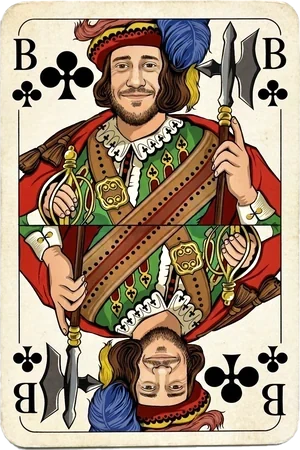
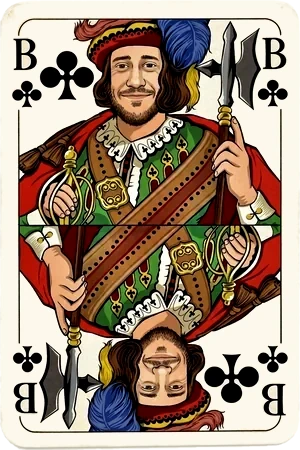
v321: Doppelkopf - Kreuz-Karten deutlich heller, Papier flach und ohne Scan-Flecken
Claude-Session: https://claude.ai/code/session_01Bq3j1UmgmmQRjdUKFtX7an

diff --git a/sw.js b/sw.js
@@ -44,8 +44,8 @@ const DATEIEN = [
   "spiele/groessenvergleich/objekte.js",
   "spiele/groessenvergleich/silhouetten.js",
   "spiele/knobeln/spiel.js",
-  "spiele/anleitungen.js?v=320",
-  "spiele/anleitungen-daten.js?v=320",
+  "spiele/anleitungen.js?v=321",
+  "spiele/anleitungen-daten.js?v=321",
   "spiele/doppelkopf/spiel.js",
   "spiele/tetris/spiel.js",
   "spiele/doppelkopf/regeln.js",
@@ -66,57 +66,57 @@ const DATEIEN = [
   "spiele/fussball-auktion/design.js",
   "spiele/fussball-auktion/anleitung.js",
   "spiele/fussball-auktion/karten.json",
-  "bilder/fussball-auktion/spieler-it-1.png?v=320",
-  "bilder/fussball-auktion/spieler-it-2.png?v=320",
-  "bilder/fussball-auktion/spieler-it-3.png?v=320",
-  "bilder/fussball-auktion/spieler-it-4.png?v=320",
-  "bilder/fussball-auktion/spieler-it-5.png?v=320",
-  "bilder/fussball-auktion/spieler-de-1.png?v=320",
+  "bilder/fussball-auktion/spieler-it-1.png?v=321",
+  "bilder/fussball-auktion/spieler-it-2.png?v=321",
+  "bilder/fussball-auktion/spieler-it-3.png?v=321",
+  "bilder/fussball-auktion/spieler-it-4.png?v=321",
+  "bilder/fussball-auktion/spieler-it-5.png?v=321",
+  "bilder/fussball-auktion/spieler-de-1.png?v=321",
   "bilder/doppelkopf-dame.webp",
-  "bilder/doppelkopf/kreuz-9.webp?v=320",
-  "bilder/doppelkopf/kreuz-10.webp?v=320",
-  "bilder/doppelkopf/kreuz-bube.webp?v=320",
-  "bilder/doppelkopf/kreuz-dame.webp?v=320",
-  "bilder/doppelkopf/kreuz-koenig.webp?v=320",
-  "bilder/doppelkopf/kreuz-ass.webp?v=320",
+  "bilder/doppelkopf/kreuz-9.webp?v=321",
+  "bilder/doppelkopf/kreuz-10.webp?v=321",
+  "bilder/doppelkopf/kreuz-bube.webp?v=321",
+  "bilder/doppelkopf/kreuz-dame.webp?v=321",
+  "bilder/doppelkopf/kreuz-koenig.webp?v=321",
+  "bilder/doppelkopf/kreuz-ass.webp?v=321",
   "bilder/tetris-stein.webp",
   "bilder/knobeln-streichhoelzer.webp",
   "bilder/merks-dir-karten.webp",
   "bilder/passgenau-bloecke.webp",
-  "bilder/fussball-auktion/spieler-de-2.png?v=320",
-  "bilder/fussball-auktion/spieler-de-3.png?v=320",
-  "bilder/fussball-auktion/spieler-de-4.png?v=320",
-  "bilder/fussball-auktion/spieler-de-5.png?v=320",
-  "bilder/fussball-auktion/spieler-jp-1.png?v=320",
-  "bilder/fussball-auktion/spieler-jp-2.png?v=320",
-  "bilder/fussball-auktion/spieler-jp-3.png?v=320",
-  "bilder/fussball-auktion/spieler-jp-4.png?v=320",
-  "bilder/fussball-auktion/spieler-jp-5.png?v=320",
-  "bilder/fussball-auktion/spieler-br-1.png?v=320",
-  "bilder/fussball-auktion/spieler-br-2.png?v=320",
-  "bilder/fussball-auktion/spieler-br-3.png?v=320",
-  "bilder/fussball-auktion/spieler-br-4.png?v=320",
-  "bilder/fussball-auktion/spieler-br-5.png?v=320",
-  "bilder/fussball-auktion/spieler-es-1.png?v=320",
-  "bilder/fussball-auktion/spieler-es-2.png?v=320",
-  "bilder/fussball-auktion/spieler-es-3.png?v=320",
-  "bilder/fussball-auktion/spieler-es-4.png?v=320",
-  "bilder/fussball-auktion/spieler-es-5.png?v=320",
-  "bilder/fussball-auktion/spieler-ar-1.png?v=320",
-  "bilder/fussball-auktion/spieler-ar-2.png?v=320",
-  "bilder/fussball-auktion/spieler-ar-3.png?v=320",
-  "bilder/fussball-auktion/spieler-ar-4.png?v=320",
-  "bilder/fussball-auktion/spieler-ar-5.png?v=320",
-  "bilder/fussball-auktion/spieler-fr-1.png?v=320",
-  "bilder/fussball-auktion/spieler-fr-2.png?v=320",
-  "bilder/fussball-auktion/spieler-fr-3.png?v=320",
-  "bilder/fussball-auktion/spieler-fr-4.png?v=320",
-  "bilder/fussball-auktion/spieler-fr-5.png?v=320",
-  "bilder/fussball-auktion/spieler-ng-1.png?v=320",
-  "bilder/fussball-auktion/spieler-ng-2.png?v=320",
-  "bilder/fussball-auktion/spieler-ng-3.png?v=320",
-  "bilder/fussball-auktion/spieler-ng-4.png?v=320",
-  "bilder/fussball-auktion/spieler-ng-5.png?v=320",
+  "bilder/fussball-auktion/spieler-de-2.png?v=321",
+  "bilder/fussball-auktion/spieler-de-3.png?v=321",
+  "bilder/fussball-auktion/spieler-de-4.png?v=321",
+  "bilder/fussball-auktion/spieler-de-5.png?v=321",
+  "bilder/fussball-auktion/spieler-jp-1.png?v=321",
+  "bilder/fussball-auktion/spieler-jp-2.png?v=321",
+  "bilder/fussball-auktion/spieler-jp-3.png?v=321",
+  "bilder/fussball-auktion/spieler-jp-4.png?v=321",
+  "bilder/fussball-auktion/spieler-jp-5.png?v=321",
+  "bilder/fussball-auktion/spieler-br-1.png?v=321",
+  "bilder/fussball-auktion/spieler-br-2.png?v=321",
+  "bilder/fussball-auktion/spieler-br-3.png?v=321",
+  "bilder/fussball-auktion/spieler-br-4.png?v=321",
+  "bilder/fussball-auktion/spieler-br-5.png?v=321",
+  "bilder/fussball-auktion/spieler-es-1.png?v=321",
+  "bilder/fussball-auktion/spieler-es-2.png?v=321",
+  "bilder/fussball-auktion/spieler-es-3.png?v=321",
+  "bilder/fussball-auktion/spieler-es-4.png?v=321",
+  "bilder/fussball-auktion/spieler-es-5.png?v=321",
+  "bilder/fussball-auktion/spieler-ar-1.png?v=321",
+  "bilder/fussball-auktion/spieler-ar-2.png?v=321",
+  "bilder/fussball-auktion/spieler-ar-3.png?v=321",
+  "bilder/fussball-auktion/spieler-ar-4.png?v=321",
+  "bilder/fussball-auktion/spieler-ar-5.png?v=321",
+  "bilder/fussball-auktion/spieler-fr-1.png?v=321",
+  "bilder/fussball-auktion/spieler-fr-2.png?v=321",
+  "bilder/fussball-auktion/spieler-fr-3.png?v=321",
+  "bilder/fussball-auktion/spieler-fr-4.png?v=321",
+  "bilder/fussball-auktion/spieler-fr-5.png?v=321",
+  "bilder/fussball-auktion/spieler-ng-1.png?v=321",
+  "bilder/fussball-auktion/spieler-ng-2.png?v=321",
+  "bilder/fussball-auktion/spieler-ng-3.png?v=321",
+  "bilder/fussball-auktion/spieler-ng-4.png?v=321",
+  "bilder/fussball-auktion/spieler-ng-5.png?v=321",
   "spiele/doppelblick/spiel.js",
   "spiele/blitzquiz/spiel.js",
   "spiele/blitzquiz/fragen.json",

diff --git a/index.html b/index.html
@@ -18,7 +18,7 @@
   <link rel="preconnect" href="https://fonts.googleapis.com">
   <link rel="preconnect" href="https://fonts.gstatic.com" crossorigin>
   <link href="https://fonts.googleapis.com/css2?family=Barlow+Condensed:ital,wght@0,800;1,800&family=Bungee&display=swap" rel="stylesheet">
-  <link rel="stylesheet" href="stil.css?v=320">
+  <link rel="stylesheet" href="stil.css?v=321">
 </head>
 <body>
 
@@ -39,7 +39,7 @@
   <div id="start-screen" class="bildschirm-karte">
     <div class="start-hero">
       <div class="start-icon">
-        <img src="bilder/logo-fuchs-transparent.png?v=320" width="102" height="102" alt="" class="app-icon">
+        <img src="bilder/logo-fuchs-transparent.png?v=321" width="102" height="102" alt="" class="app-icon">
       </div>
       <h1>Trollhouse</h1>
       <p class="start-tagline">Ein Raum, ein Abend, viele Spiele</p>
@@ -204,11 +204,11 @@
   <div id="lobby-screen" class="bildschirm-karte" hidden>
     <div class="lobby-kopf">
       <div class="lobby-marke">
-        <span class="lobby-logo-badge"><img src="bilder/logo-fuchs-transparent.png?v=320" width="36" height="36" alt="" class="lobby-app-icon"></span>
+        <span class="lobby-logo-badge"><img src="bilder/logo-fuchs-transparent.png?v=321" width="36" height="36" alt="" class="lobby-app-icon"></span>
         <h1>Trollhouse</h1>
       </div>
       <button id="btn-lobby-verlassen" class="lobby-verlassen" type="button">
-        <img src="bilder/icon-raum-verlassen.svg?v=320" width="32" height="32" alt="">
+        <img src="bilder/icon-raum-verlassen.svg?v=321" width="32" height="32" alt="">
         <span class="nur-screenreader">Raum verlassen</span>
       </button>
     </div>
@@ -254,6 +254,6 @@
   <!-- ---------- Hierhin rendert das jeweils laufende Spiel ---------- -->
   <div id="spiel-wurzel"></div>
 
-  <script type="module" src="app.js?v=320"></script>
+  <script type="module" src="app.js?v=321"></script>
 </body>
 </html>

diff --git a/spiele/anleitungen.js b/spiele/anleitungen.js
@@ -2,8 +2,8 @@
 //  Spiele-Anleitungen: Übersicht aller Spiele, dann Seite für Seite durchblättern.
 //  Wird erst beim Klick auf "Spiele" (Startseite) geladen.
 // ============================================================================
-import { SPIELE } from "./register.js?v=320";
-import { ANLEITUNGEN, szene } from "./anleitungen-daten.js?v=320";
+import { SPIELE } from "./register.js?v=321";
+import { ANLEITUNGEN, szene } from "./anleitungen-daten.js?v=321";
 
 const esc = (s) => String(s).replace(/&/g, "&amp;").replace(/</g, "&lt;").replace(/>/g, "&gt;");
 const fett = (s) => esc(s).replace(/\*\*(.+?)\*\*/g, "<strong>$1</strong>");
@@ -61,7 +61,7 @@ export function oeffneAnleitungen(startId = null) {
       </div>
       <div class="anl-titel"><span class="anl-titel-sym">${symbol(sp)}</span><h2>${esc(sp.name)}</h2></div>
       <div class="anl-folie" id="anl-folie">
-        <div class="anl-bildrahmen"><img class="anl-foto" src="bilder/anleitung/${id}-${seite + 1}.webp?v=320" alt="Screenshot: ${esc(f.t)}" loading="eager"></div>
+        <div class="anl-bildrahmen"><img class="anl-foto" src="bilder/anleitung/${id}-${seite + 1}.webp?v=321" alt="Screenshot: ${esc(f.t)}" loading="eager"></div>
         <h3>${esc(f.t)}</h3>
         ${f.x.map((a) => `<p>${fett(a)}</p>`).join("")}
       </div>

diff --git a/app.js b/app.js
@@ -13,9 +13,9 @@ import {
 // WICHTIG: bei jedem Versionssprung hier UND in spiele/register.js
 // (SPIEL_VERSION) mit hochzaehlen, sonst bekommen manche Geraete
 // Spiel-Fixes (spiele/<id>/spiel.js) verzoegert oder gar nicht mit.
-import { SPIELE, spielInfo } from "./spiele/register.js?v=320";
+import { SPIELE, spielInfo } from "./spiele/register.js?v=321";
 
-export const APP_VERSION = "v320";
+export const APP_VERSION = "v321";
 const appVersion = document.getElementById("app-version");
 appVersion.textContent = "Version " + APP_VERSION;
 

diff --git a/spiele/doppelkopf/karten.js b/spiele/doppelkopf/karten.js
@@ -167,7 +167,7 @@ export function kartenSvg(id) {
   if (cache.has(id)) return cache.get(id);
   const bild = BILD_KARTEN[farbe + rang];
   if (bild) {
-    const html = `<img class="dk-karte-svg dk-karte-bild" src="bilder/doppelkopf/${bild}.webp?v=320" alt="${farbe}${rang}" draggable="false">`;
+    const html = `<img class="dk-karte-svg dk-karte-bild" src="bilder/doppelkopf/${bild}.webp?v=321" alt="${farbe}${rang}" draggable="false">`;
     cache.set(id, html);
     return html;
   }

diff --git a/spiele/register.js b/spiele/register.js
@@ -18,7 +18,7 @@
 // in der Olympiade trotz Fix in v201/v202 teils noch bestehen lassen.
 // WICHTIG: bei jedem Versionssprung hier UND in app.js (Import von
 // register.js) mit hochzaehlen.
-const SPIEL_VERSION = "320";
+const SPIEL_VERSION = "321";
 
 export const SPIELE = [
   {
